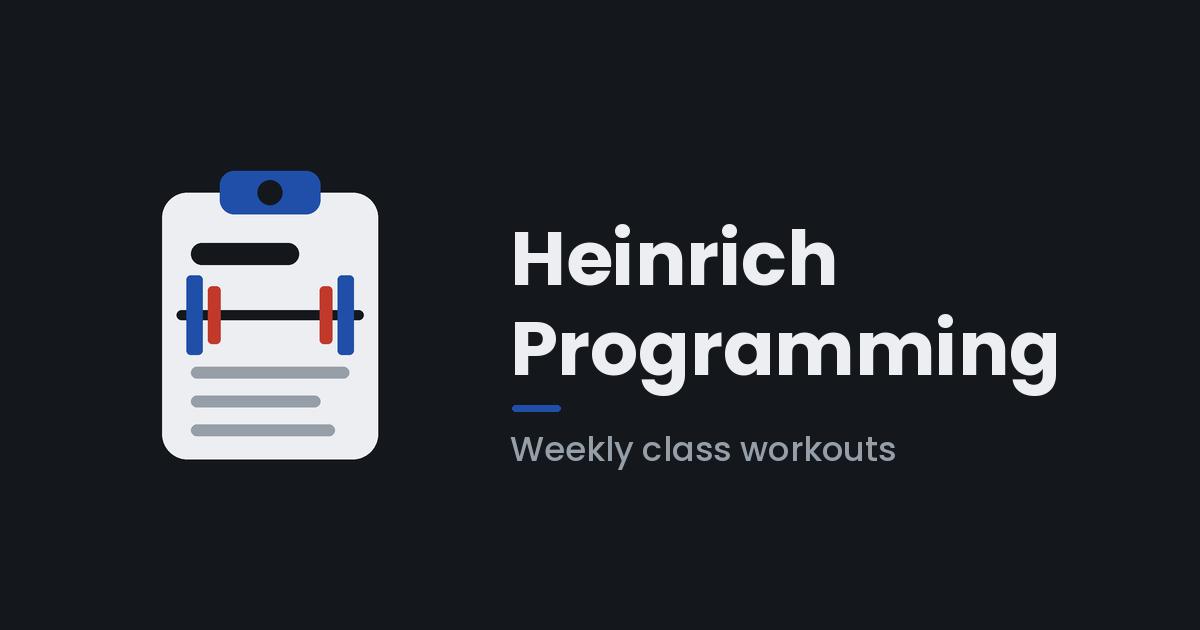
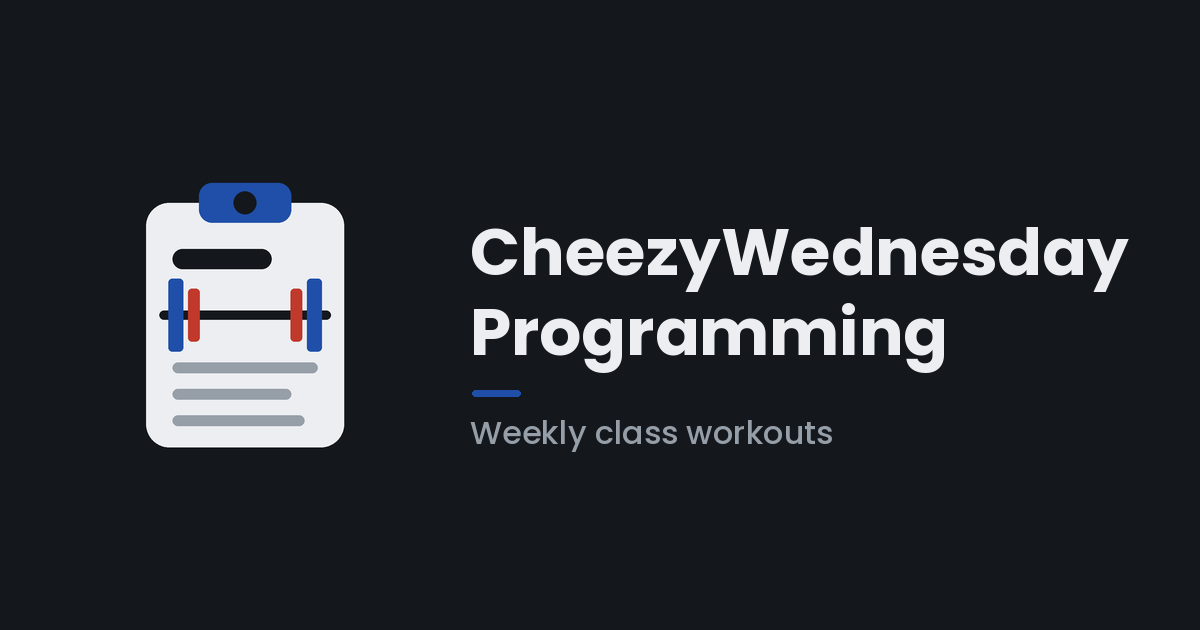
Rename to CheezyWednesday Programming, add scores for Pia and Henning
Claude-Session: https://claude.ai/code/session_012HNxRaAmxbCuUyW8xvi1CV

diff --git a/public/index.html b/public/index.html
@@ -5,22 +5,22 @@
 <meta name="viewport" content="width=device-width,initial-scale=1,viewport-fit=cover">
 <meta name="theme-color" content="#14181d">
 <meta name="apple-mobile-web-app-capable" content="yes">
-<meta name="apple-mobile-web-app-title" content="Heinrich">
+<meta name="apple-mobile-web-app-title" content="CheezyWed">
 <link rel="manifest" href="/manifest.webmanifest">
 <link rel="apple-touch-icon" href="/icon-180.png">
 <link rel="icon" type="image/png" href="/favicon.png">
-<title>Heinrich Programming</title>
+<title>CheezyWednesday Programming</title>
 <meta name="description" content="Weekly class workouts.">
 <meta property="og:type" content="website">
-<meta property="og:site_name" content="Heinrich Programming">
-<meta property="og:title" content="Heinrich Programming">
+<meta property="og:site_name" content="CheezyWednesday Programming">
+<meta property="og:title" content="CheezyWednesday Programming">
 <meta property="og:description" content="Weekly class workouts.">
 <meta property="og:url" content="__SITE__/">
 <meta property="og:image" content="__SITE__/og.png">
 <meta property="og:image:width" content="1200">
 <meta property="og:image:height" content="630">
 <meta name="twitter:card" content="summary_large_image">
-<meta name="twitter:title" content="Heinrich Programming">
+<meta name="twitter:title" content="CheezyWednesday Programming">
 <meta name="twitter:image" content="__SITE__/og.png">
 
 <style>
@@ -55,11 +55,11 @@ body::before{content:"";position:fixed;inset:0 0 auto;height:env(safe-area-inset
 
 header{position:sticky;top:env(safe-area-inset-top,0px);z-index:5;background:var(--bg);padding-block:8px 10px;display:grid;gap:10px}
 .top{display:flex;align-items:center;justify-content:space-between;gap:8px}
-.brand{font-family:var(--display);font-weight:800;font-size:28px;letter-spacing:.02em;line-height:1;text-transform:uppercase}
+.brand{min-width:0;font-family:var(--display);font-weight:800;font-size:clamp(21px,6vw,28px);letter-spacing:.02em;line-height:1;text-transform:uppercase}
 .brand small{display:block;font-family:var(--body);font-weight:500;font-size:12px;letter-spacing:.06em;color:var(--muted);text-transform:uppercase;margin-top:4px}
 .tools{display:flex;gap:6px;align-items:center}
 select,button{font:inherit;color:var(--ink)}
-select{background:var(--surface);border:1px solid var(--line);border-radius:8px;padding:6px 8px;font-size:13px;max-width:140px}
+select{background:var(--surface);border:1px solid var(--line);border-radius:8px;padding:6px 8px;font-size:13px;max-width:116px}
 .icon-btn{background:var(--surface);border:1px solid var(--line);border-radius:8px;width:36px;height:34px;display:grid;place-items:center;cursor:pointer}
 .icon-btn:focus-visible,.day:focus-visible,.wk-btn:focus-visible,select:focus-visible{outline:2px solid var(--accent);outline-offset:2px}
 .icon-btn svg{width:16px;height:16px;stroke:currentColor;fill:none;stroke-width:2}
@@ -99,6 +99,13 @@ main{display:grid;gap:12px;margin-top:6px}
 .notes .wod{font-size:14px;color:var(--ink)}
 .notes .wod .hl{color:var(--green);font-weight:600}
 
+.scores{display:grid;grid-template-columns:1fr 1fr;gap:10px}
+.score{display:grid;gap:4px;min-width:0}
+.score label{font-size:11px;font-weight:600;letter-spacing:.08em;text-transform:uppercase;color:var(--muted);display:flex;justify-content:space-between;gap:6px}
+.score label .st{letter-spacing:0;text-transform:none;font-weight:500;color:var(--green)}
+.score input{width:100%;min-width:0;font:inherit;font-size:17px;font-weight:600;font-variant-numeric:tabular-nums;color:var(--ink);background:var(--bg);border:1px solid var(--line);border-radius:8px;padding:9px 10px}
+.score input:focus{outline:2px solid var(--accent);outline-offset:1px;border-color:transparent}
+.plate.s{background:var(--green)}
 .empty,.banner{background:var(--surface);border:1px dashed var(--line);border-radius:12px;padding:18px 16px;color:var(--muted);font-size:14px}
 .banner{border-style:solid;border-color:var(--yellow);color:var(--ink)}
 .banner b{display:block;margin-bottom:2px}
@@ -120,7 +127,7 @@ main{display:grid;gap:12px;margin-top:6px}
 <div class="wrap">
   <header>
     <div class="top">
-      <div class="brand">Heinrich<small id="cycleLabel">Programming</small></div>
+      <div class="brand">CheezyWednesday<small id="cycleLabel">Programming</small></div>
       <div class="tools">
         <label for="tabSel" hidden>Cycle</label>
         <select id="tabSel" aria-label="Cycle"></select>
@@ -151,7 +158,7 @@ main{display:grid;gap:12px;margin-top:6px}
 const DAYS = ["Mon","Tue","Wed","Thu","Fri","Sat","Sun"];
 const DAY_NAMES = ["Monday","Tuesday","Wednesday","Thursday","Friday","Saturday","Sunday"];
 const $ = id => document.getElementById(id);
-const S = { tab:null, tabs:[], weeks:[], wi:0, di:0, updated:null, unsub:null, picked:false, error:null };
+const S = { tab:null, tabs:[], weeks:[], wi:0, di:0, updated:null, unsub:null, picked:false, error:null, scores:{}, scoreMode:"shared" };
 
 const store = {
   get(k){ try{ return JSON.parse(localStorage.getItem(k)); }catch(e){ return null; } },
@@ -245,9 +252,59 @@ function render(){
   if (A) html += slab("a","A", sunday && B ? "Hero" : "WOD A", A, false);
   if (B) html += slab("b","B", sunday ? "Workout" : "WOD B", B, false);
   if (N) html += slab("n","!", "Notes", N, true);
+  if (A || B) html += scoreSlab(w);
   $("main").innerHTML = html;
+  loadScores(w);
   $("foot").textContent = S.updated ? `Updated from the sheet ${new Date(S.updated).toLocaleString("de-DE",{weekday:"short",hour:"2-digit",minute:"2-digit"})}` : "";
 }
+// ---- scores (shared via /api/scores, falls back to this phone only) ----
+const PEOPLE = [["pia","Pia"],["henning","Henning"]];
+const weekId = w => `${S.tab}|${w.no}`;
+function scoreSlab(w){
+  const sc = S.scores[weekId(w)] || {};
+  const fields = PEOPLE.map(([id,name]) => {
+    const v = sc[`${S.di}:${id}`] || "";
+    return `<div class="score"><label for="score-${id}">${name}<span class="st" id="st-${id}"></span></label><input id="score-${id}" data-person="${id}" value="${esc(v)}" placeholder="e.g. 5+12, 14:32, 85kg" autocomplete="off" enterkeyhint="done" maxlength="60"></div>`;
+  }).join("");
+  const hint = S.scoreMode === "local" ? `<div class="slab-label" style="margin:8px 0 0">Saved on this phone only</div>` : "";
+  return `<section class="slab"><div class="plate s" aria-hidden="true">✓</div><div class="slab-body"><div class="slab-label">Score</div><div class="scores">${fields}</div>${hint}</div></section>`;
+}
+const scoreLoaded = new Set();
+async function loadScores(w){
+  const id = weekId(w);
+  if (scoreLoaded.has(id)) return;
+  scoreLoaded.add(id);
+  const local = store.get("scores:"+id) || {};
+  S.scores[id] = Object.assign({}, local, S.scores[id] || {});
+  try {
+    const r = await fetch("/api/scores?" + new URLSearchParams({ week: id }), { cache: "no-store" });
+    if (r.status === 501){ S.scoreMode = "local"; }
+    else if (r.ok){ const j = await r.json(); S.scores[id] = Object.assign({}, local, j.scores); store.set("scores:"+id, S.scores[id]); }
+  } catch (e) {}
+  if (S.weeks[S.wi] && weekId(S.weeks[S.wi]) === id && !document.activeElement?.matches?.(".score input")) render();
+}
+const saveTimers = {};
+async function saveScore(person, value){
+  const w = S.weeks[S.wi]; if (!w) return;
+  const id = weekId(w), day = S.di, st = $("st-"+person);
+  S.scores[id] = S.scores[id] || {};
+  if (value) S.scores[id][`${day}:${person}`] = value; else delete S.scores[id][`${day}:${person}`];
+  store.set("scores:"+id, S.scores[id]);
+  if (S.scoreMode === "local"){ if (st) st.textContent = "Saved"; return; }
+  try {
+    const r = await fetch("/api/scores", { method:"POST", headers:{ "Content-Type":"application/json" }, body: JSON.stringify({ week:id, day, person, value }) });
+    if (r.status === 501){ S.scoreMode = "local"; if (st) st.textContent = "Saved"; return; }
+    if (st) st.textContent = r.ok ? "Saved" : "Not saved";
+  } catch (e) { if (st) st.textContent = "Offline, on phone"; }
+}
+$("main").addEventListener("input", e => {
+  const inp = e.target.closest(".score input"); if (!inp) return;
+  const p = inp.dataset.person; const st = $("st-"+p); if (st) st.textContent = "…";
+  clearTimeout(saveTimers[p]);
+  saveTimers[p] = setTimeout(() => saveScore(p, inp.value.trim()), 700);
+});
+$("main").addEventListener("keydown", e => { if (e.key === "Enter" && e.target.matches(".score input")) e.target.blur(); });
+
 const slab = (cls, mark, label, text, notes) =>
   `<section class="slab${notes?" notes":""}"><div class="plate ${cls}" aria-hidden="true">${mark}</div><div class="slab-body"><div class="slab-label">${label}</div><div class="wod">${wodHTML(text, notes)}</div></div></section>`;
 
@@ -353,7 +410,7 @@ document.addEventListener("visibilitychange", () => { if (document.visibilitySta
     if (ios) return [
       iosOther ? `Tap the share button ${share} in the address bar.` : `Tap the share button ${share} at the bottom of Safari.`,
       `Scroll down and tap <b>Add to Home Screen</b> ${plus}.`,
-      `Tap <b>Add</b>. Heinrich Programming now opens from its own icon.`
+      `Tap <b>Add</b>. CheezyWednesday Programming now opens from its own icon.`
     ];
     return [`Open your browser menu (⋮).`, `Tap <b>Install app</b> or <b>Add to Home screen</b>.`];
   }

diff --git a/api/scores.js b/api/scores.js
@@ -1,0 +1,45 @@
+// Shared scores for Pia and Henning, stored in Upstash Redis (Vercel Storage → Upstash).
+// GET  /api/scores?week=Fall%202026%7C8           -> { scores: { "0:pia": "5+12", ... } }
+// POST /api/scores {week, day, person, value}      -> { ok: true }
+const URL_ = process.env.KV_REST_API_URL || process.env.UPSTASH_REDIS_REST_URL;
+const TOKEN = process.env.KV_REST_API_TOKEN || process.env.UPSTASH_REDIS_REST_TOKEN;
+const PEOPLE = ["pia", "henning"];
+
+async function redis(cmd) {
+  const r = await fetch(URL_, {
+    method: "POST",
+    headers: { Authorization: `Bearer ${TOKEN}`, "Content-Type": "application/json" },
+    body: JSON.stringify(cmd),
+  });
+  const j = await r.json();
+  if (!r.ok || j.error) throw new Error(j.error || `Redis ${r.status}`);
+  return j.result;
+}
+
+const weekKey = (w) => "scores:" + String(w || "").slice(0, 60);
+
+export default async function handler(req, res) {
+  res.setHeader("Cache-Control", "no-store");
+  if (!URL_ || !TOKEN) return res.status(501).json({ code: "not_configured" });
+  try {
+    if (req.method === "GET") {
+      const flat = (await redis(["HGETALL", weekKey(req.query.week)])) || [];
+      const scores = {};
+      for (let i = 0; i < flat.length; i += 2) scores[flat[i]] = flat[i + 1];
+      return res.json({ scores });
+    }
+    if (req.method === "POST") {
+      const b = typeof req.body === "string" ? JSON.parse(req.body) : req.body || {};
+      const day = Number(b.day);
+      if (!b.week || !(day >= 0 && day <= 6) || !PEOPLE.includes(b.person)) return res.status(400).json({ code: "bad_request" });
+      const field = `${day}:${b.person}`;
+      const value = String(b.value || "").trim().slice(0, 60);
+      if (value) await redis(["HSET", weekKey(b.week), field, value]);
+      else await redis(["HDEL", weekKey(b.week), field]);
+      return res.json({ ok: true });
+    }
+    return res.status(405).json({ code: "method" });
+  } catch (e) {
+    return res.status(502).json({ code: "store_error", message: e.message });
+  }
+}

diff --git a/public/sw.js b/public/sw.js
@@ -1,5 +1,5 @@
 // Network first, cached copy when offline (so the board still opens in the gym).
-const CACHE = "werk-board-v3";
+const CACHE = "werk-board-v4";
 self.addEventListener("install", (e) => { self.skipWaiting(); e.waitUntil(caches.open(CACHE).then((c) => c.addAll(["/", "/manifest.webmanifest", "/icon-192.png", "/data.json"]))); });
 self.addEventListener("activate", (e) => e.waitUntil(self.clients.claim()));
 self.addEventListener("fetch", (e) => {

diff --git a/README.md b/README.md
@@ -1,4 +1,4 @@
-# Heinrich Programming (werk-board)
+# CheezyWednesday Programming (werk-board)
 
 Phone view of the class workouts from the Google Sheet "WEEKLY OVERVIEW PROGRAMMING".
 
@@ -20,3 +20,9 @@ After the week is written to the sheet, ask Claude to update the Werk Board. Cla
 Open the Vercel URL in Safari → Share → **Add to Home Screen**.
 
 The URL is public. To lock it, turn on Vercel → Settings → Deployment Protection.
+
+## Scores (Pia and Henning)
+
+Each day has a score field for Pia and one for Henning. To share them between phones, add a store once:
+Vercel → Project → Storage → Create → **Upstash for Redis** (free) → connect it to this project → redeploy.
+`api/scores.js` picks up the injected `KV_REST_API_URL` / `KV_REST_API_TOKEN` (or `UPSTASH_REDIS_REST_*`). Without a store, scores are kept on each phone only.
